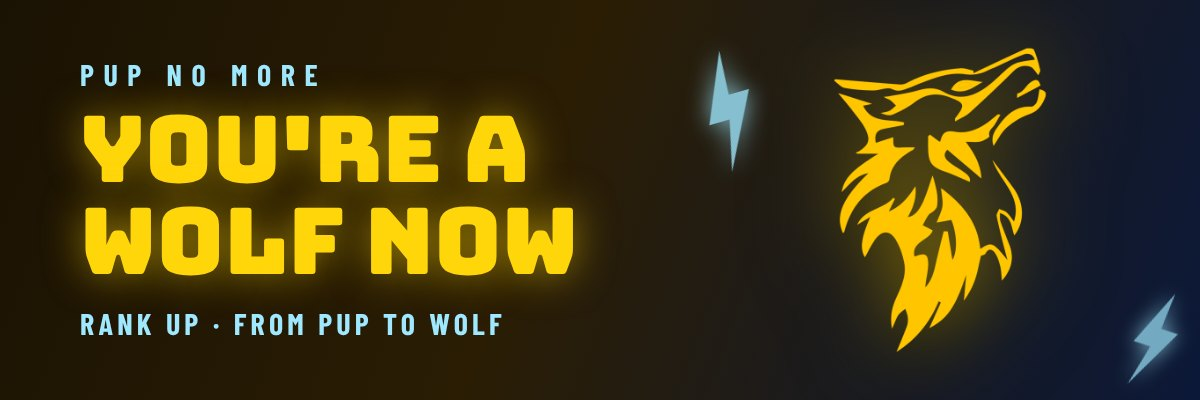
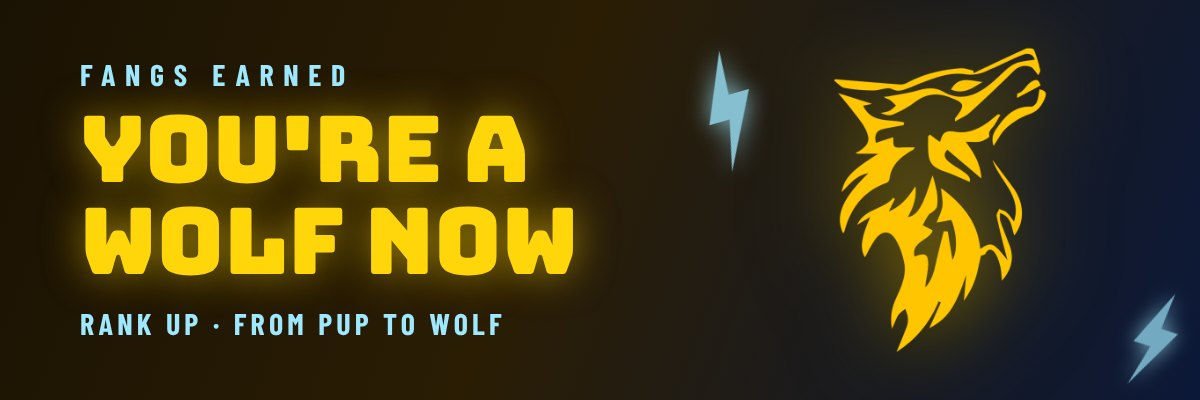
Lightning Bot: the Wolf card says "Fangs earned"
Claude-Session: https://claude.ai/code/session_01M32RedajVPJ9b6P5rhxm5J

Changed region(s): [[0.0617, 0.15, 0.3083, 0.24]]

diff --git a/lightning-community.js b/lightning-community.js
@@ -34,12 +34,12 @@ module.exports = function community({ discord, GUILD, getState, setState, guildR
   const mention = id => '<@' + id + '>';
   const fmt = n => Number(n || 0).toLocaleString('en-US');
   // the cards: a banner (client/public/discord/) and the member's own Discord picture
-  const CARD = n => 'https://lightningwolves.studio/discord/' + n + '.jpg?v=1';
+  const CARD = n => 'https://lightningwolves.studio/discord/' + n + '.jpg?v=2';
   const face = u => u && u.avatar ? 'https://cdn.discordapp.com/avatars/' + u.id + '/' + u.avatar + '.png?size=256'
     : 'https://cdn.discordapp.com/embed/avatars/' + (u && /^\d+$/.test(u.id) ? Number((BigInt(u.id) >> 22n) % 6n) : 0) + '.png';
   const nameOf = u => (u && (u.global_name || u.username)) || 'someone';
   const wolfCard = (u, how) => ({ content:mention(u.id), allowed_mentions:{ users:[u.id] }, embeds:[{ color:GOLD,
-    title:'🐺 ' + (how ? how + 'you\'re' : 'You\'re') + ' a Wolf now!', description:'**' + nameOf(u) + '** is a 🐺 **Wolf** now. Pup no more.',
+    title:'🐺 ' + (how ? how + 'you\'re' : 'You\'re') + ' a Wolf now!', description:'**' + nameOf(u) + '** is a 🐺 **Wolf** now. Fangs earned. ⚡',
     thumbnail:{ url:face(u) }, image:{ url:CARD('wolf') } }] });
   const bar = (a, b) => { const n = Math.round(10 * a / b); return '▰'.repeat(n) + '▱'.repeat(10 - n); };
 
